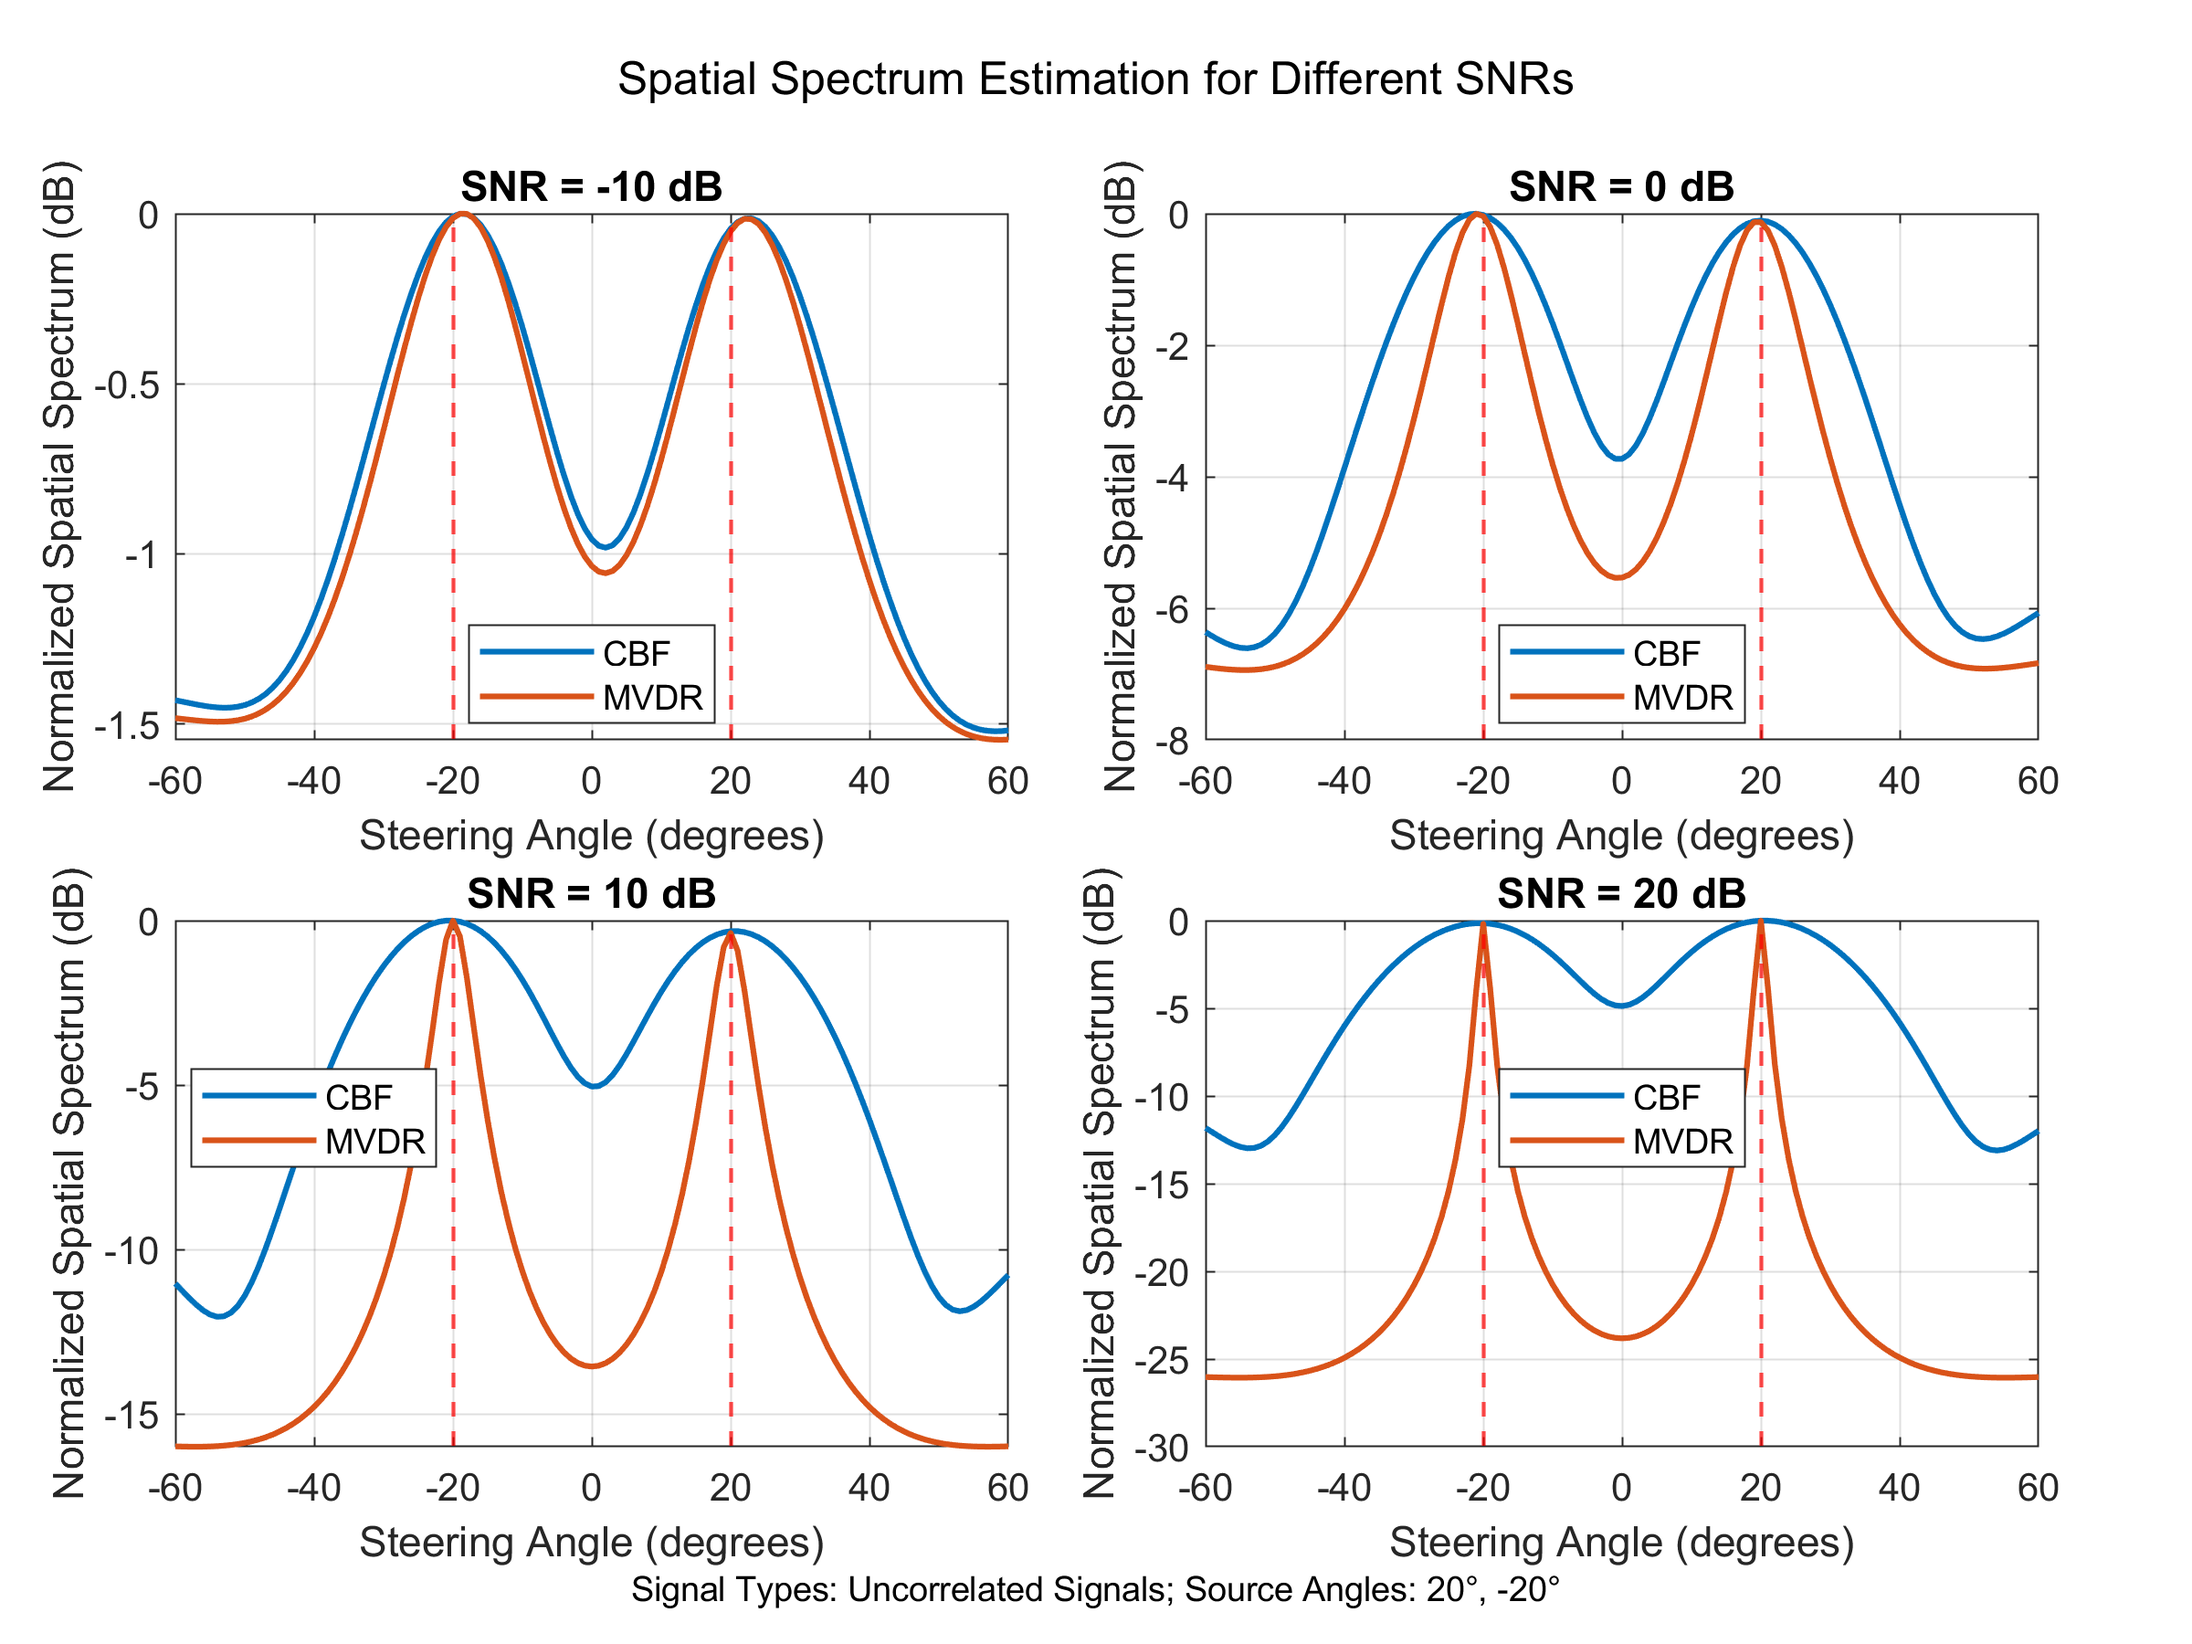
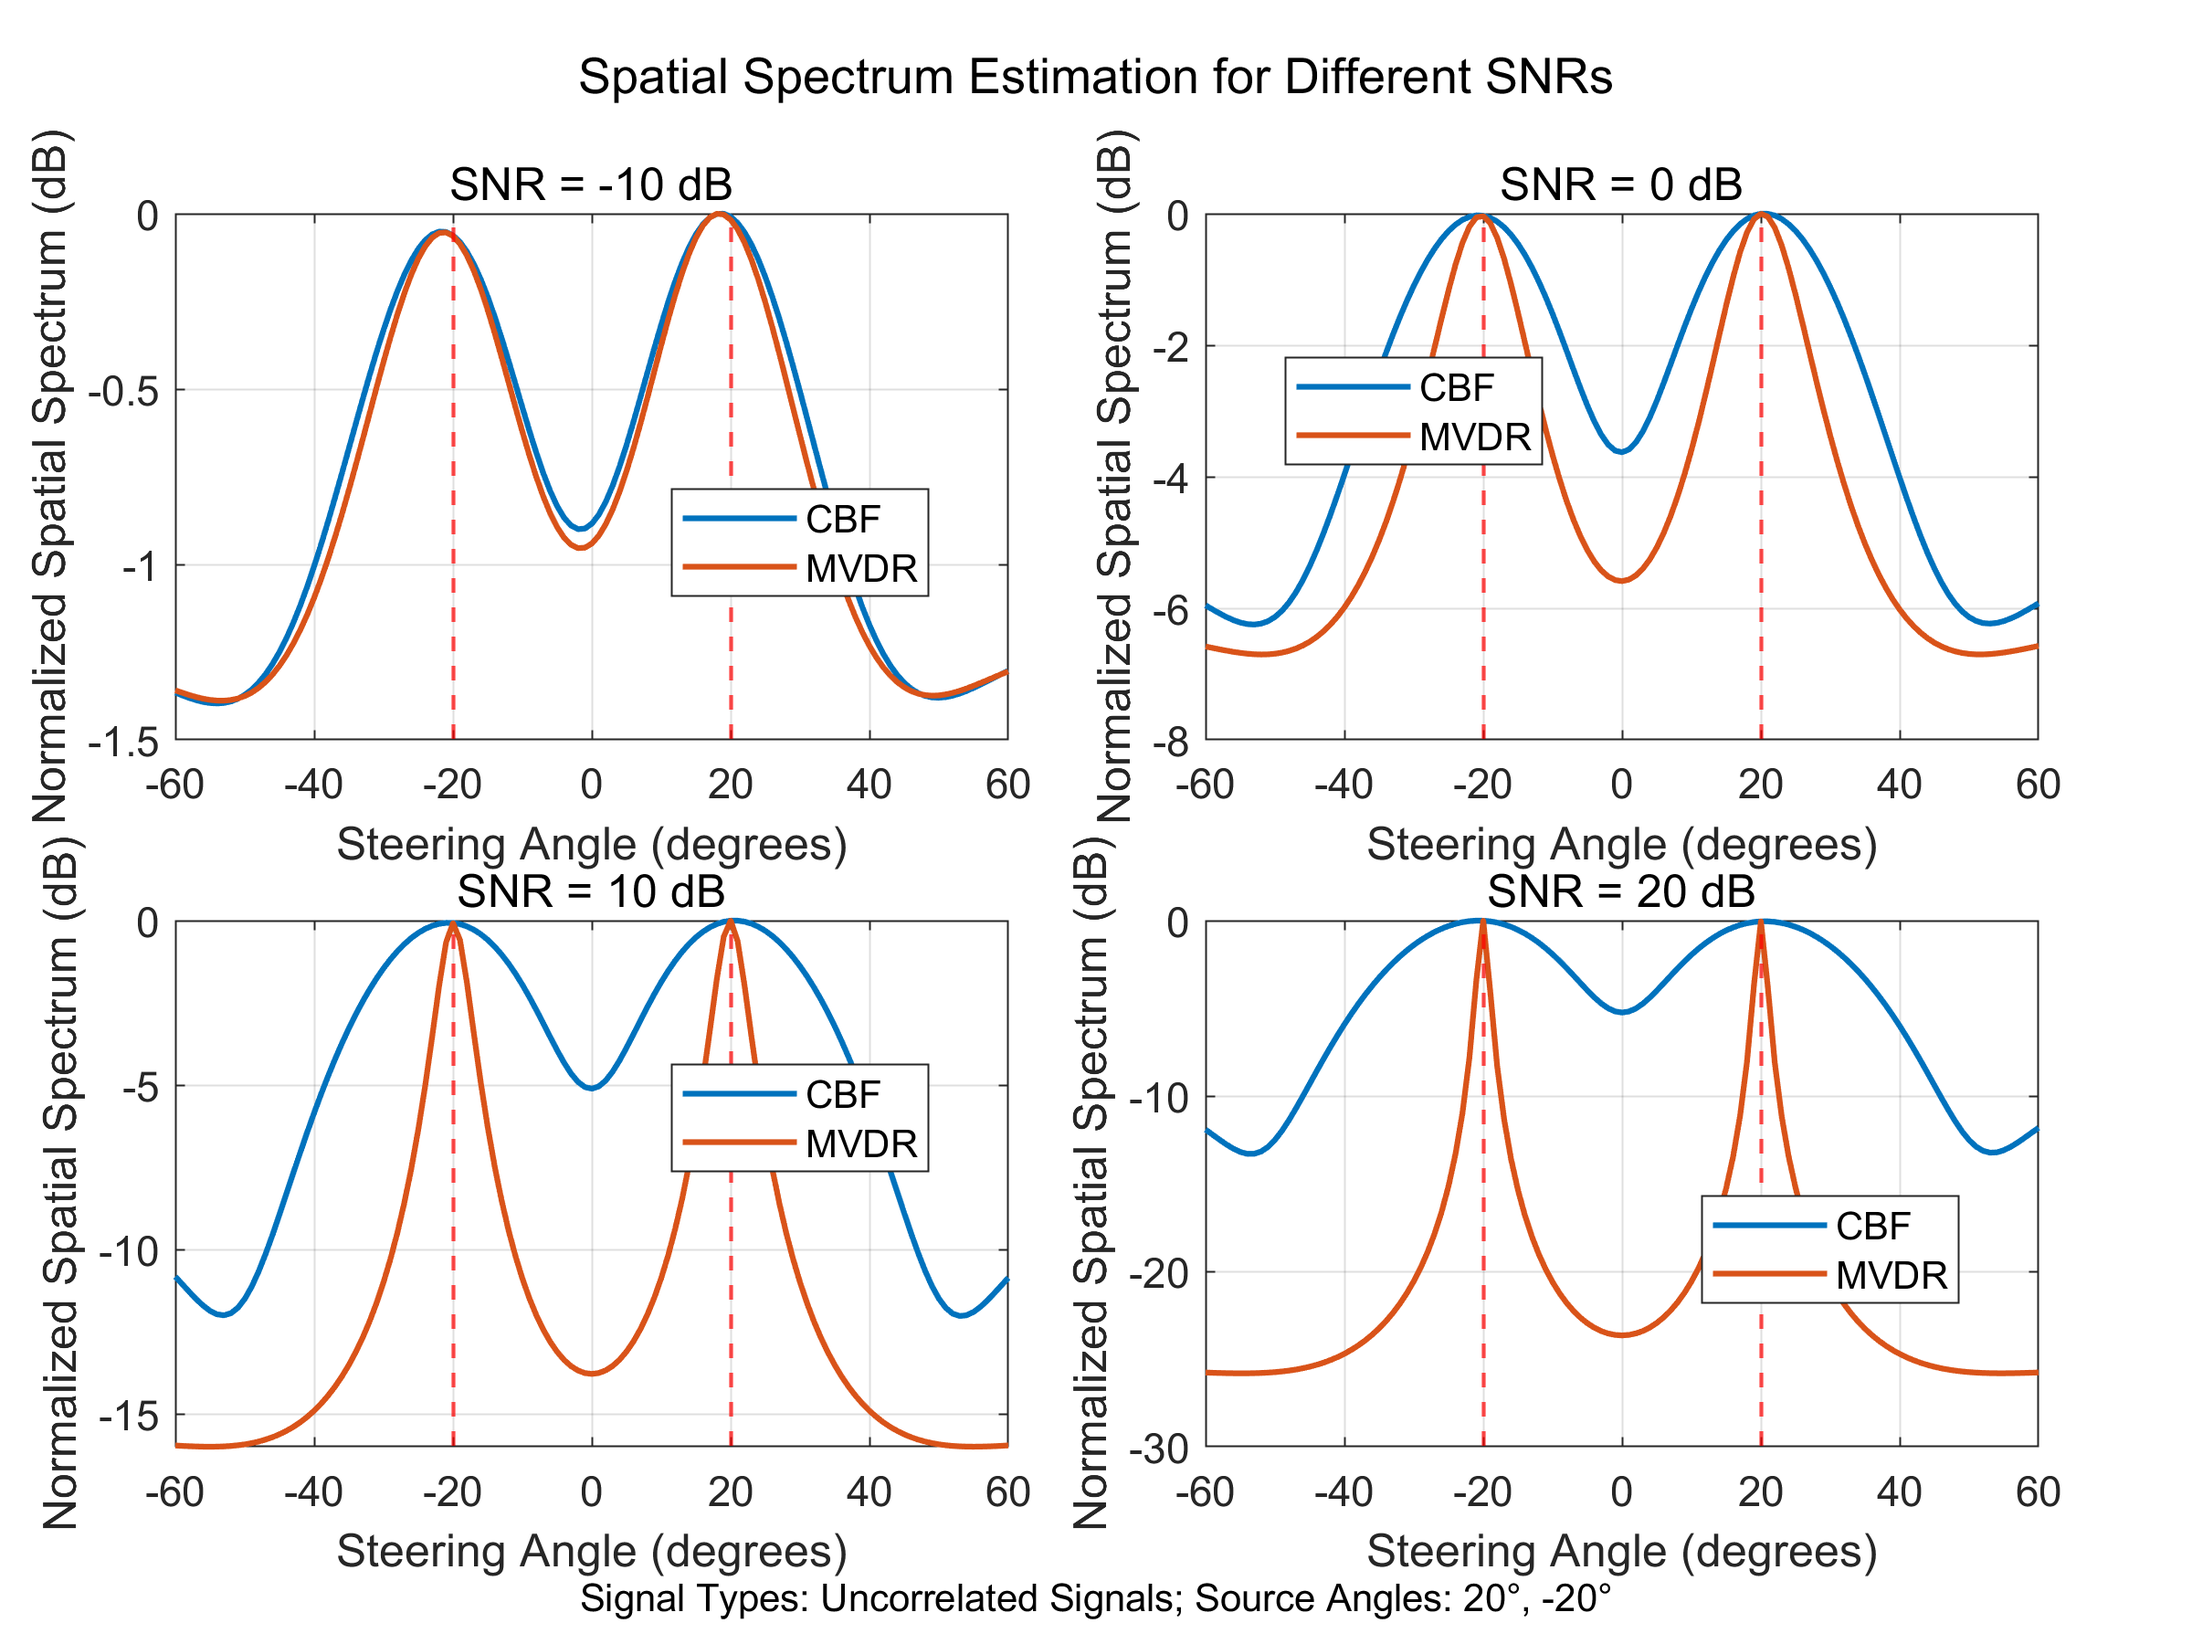
update fig

diff --git a/dsp/scripts/cbf_mvdr_sim.m b/dsp/scripts/cbf_mvdr_sim.m
@@ -5,7 +5,7 @@ if ~exist(save_path, 'dir')
 end
 
 % Font size and figure dimensions
-FontSize = 11;       % Font size
+FontSize = 12;       % Font size
 FigureWidth = 8;     % Width in inches
 FigureHeight = 6;    % Height in inches
 
@@ -87,7 +87,7 @@ for idx = 1:length(snr_values)
     legend('CBF', 'MVDR', 'Location', 'best', 'FontSize', FontSize - 2);
     xlabel('Steering Angle (degrees)', 'FontSize', FontSize - 1);
     ylabel('Normalized Spatial Spectrum (dB)', 'FontSize', FontSize - 1);
-    title(['SNR = ', num2str(snr), ' dB'], 'FontSize', FontSize);
+    title(['SNR = ', num2str(snr), ' dB'], 'FontSize', FontSize, 'FontWeight', 'normal');
     grid on;
     set(gca, 'FontSize', FontSize - 1);
 end
@@ -96,7 +96,7 @@ end
 sgtitle('Spatial Spectrum Estimation for Different SNRs', 'FontSize', FontSize + 1);
 
 % Add a note to the figure below the subplots with adjusted position
-annotation('textbox', [0, 0.004, 1, 0.05], ...
+annotation('textbox', [0, 0, 1, 0.05], ...
     'String', 'Signal Types: Uncorrelated Signals; Source Angles: 20°, -20°', ...
     'EdgeColor', 'none', 'HorizontalAlignment', 'center', 'FontSize', FontSize - 2);
 
@@ -168,7 +168,7 @@ for idx = 1:length(source_spacing_values)
     legend('CBF', 'MVDR', 'Location', 'best', 'FontSize', FontSize - 2);
     xlabel('Steering Angle (degrees)', 'FontSize', FontSize - 1);
     ylabel('Normalized Spatial Spectrum (dB)', 'FontSize', FontSize - 1);
-    title(['Source Spacing = ', num2str(spacing), '°'], 'FontSize', FontSize);
+    title(['Source Spacing = ', num2str(spacing), '°'], 'FontSize', FontSize, 'FontWeight', 'normal');
     grid on;
     set(gca, 'FontSize', FontSize - 1);
 end
@@ -177,7 +177,7 @@ end
 sgtitle('Spatial Spectrum Estimation for Different Source Spacings', 'FontSize', FontSize + 1);
 
 % Add a note to the figure below the subplots
-annotation('textbox', [0, 0.004, 1, 0.05], ...
+annotation('textbox', [0, 0, 1, 0.05], ...
     'String', 'SNR: 20 dB; Signal Type: Uncorrelated Signals', ...
     'EdgeColor', 'none', 'HorizontalAlignment', 'center', 'FontSize', FontSize - 2);
 
@@ -271,7 +271,7 @@ for idx = 1:length(signal_types)
     legend('CBF', 'MVDR', 'Location', 'best', 'FontSize', FontSize - 2);
     xlabel('Steering Angle (degrees)', 'FontSize', FontSize - 1);
     ylabel('Normalized Spatial Spectrum (dB)', 'FontSize', FontSize - 1);
-    title(['Signal Type: ', sig_type], 'FontSize', FontSize);
+    title(['Signal Type: ', sig_type], 'FontSize', FontSize, 'FontWeight', 'normal');
     grid on;
     set(gca, 'FontSize', FontSize - 1);
 end
@@ -280,7 +280,7 @@ end
 sgtitle('Spatial Spectrum Estimation for Different Signal Types', 'FontSize', FontSize + 1);
 
 % Add a note to the figure below the subplots
-annotation('textbox', [0, 0.004, 1, 0.05], ...
+annotation('textbox', [0, 0, 1, 0.05], ...
     'String', 'SNR: 20 dB; Source Angles: 20°, -20°', ...
     'EdgeColor', 'none', 'HorizontalAlignment', 'center', 'FontSize', FontSize - 2);
 
